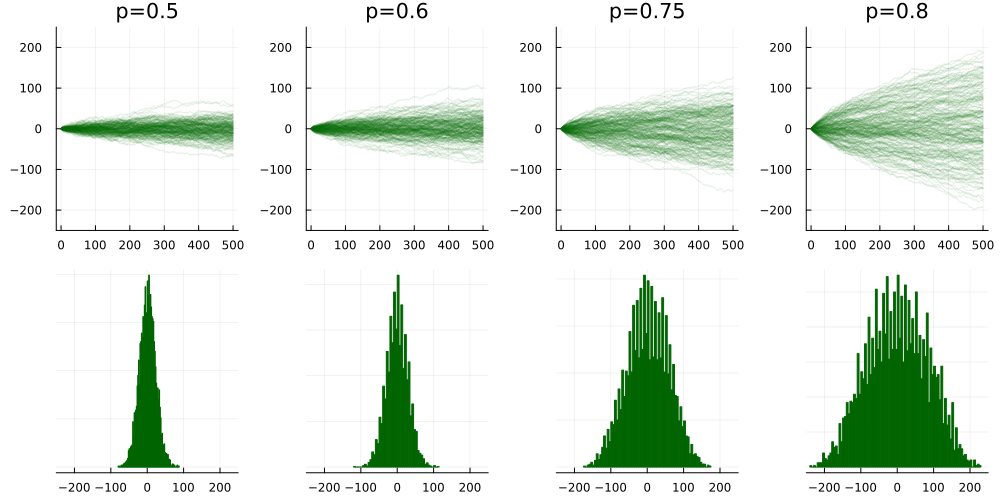
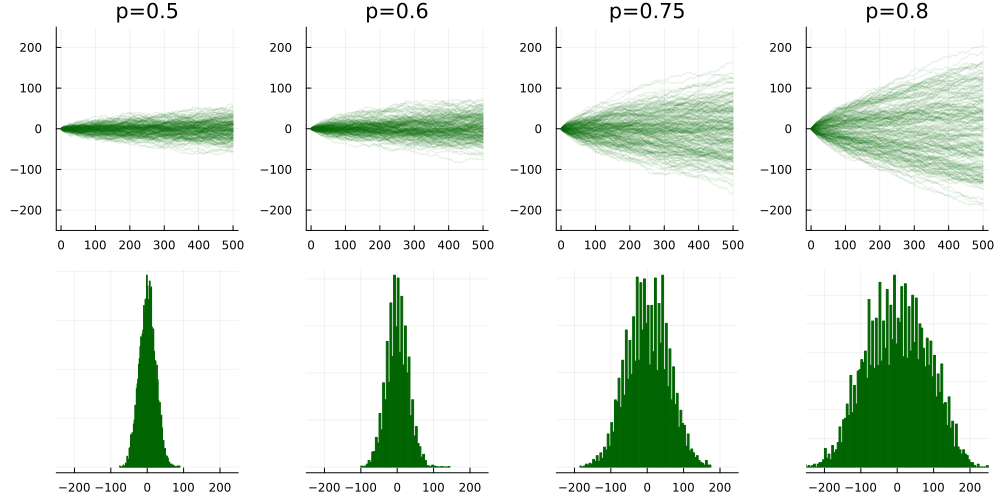
corrected small mistake

diff --git a/posts/elephant.md b/posts/elephant.md
@@ -7,7 +7,7 @@ abstract = "Long-time memory results in non-diffusivity "
 \newcommand{\ERW}{\mathrm{ERW}}
 
 
-In the Simple Random Walk (ERW), a walker moves in random directions; all of her steps are independent. The variance of the displacement of a random walker after $n$ steps typically grows linearly with $n$: for example in the 1d symmetric random walk defined by $$\SRW_n = S_1 + \dotsb + S_n$$ with $\mathbf{P}(S_n =\pm 1) = 1/2$, one has $\mathrm{Var}(\SRW_n) = n/4$. This behaviour is called [*diffusive*](https://en.wikipedia.org/wiki/Diffusion), because it is a discrete analog of heat dissipation. 
+In the Simple Random Walk (ERW), a walker moves in random directions; all of her steps are independent. The variance of the displacement of a random walker after $n$ steps typically grows linearly with $n$: for example in the 1d symmetric random walk defined by $$\SRW_n = S_1 + \dotsb + S_n$$ with $\mathbf{P}(S_n =\pm 1) = 1/2$, one has $\mathrm{Var}(\SRW_n) = n$. This behaviour is called [*diffusive*](https://en.wikipedia.org/wiki/Diffusion), because it is a discrete analog of heat dissipation. 
 
 The introduction of *long-term memory* in Random Walks breaks this diffusive behaviour. In the Simple Random Walk, the walker takes a random step independently of its former moves, oblivious of her past; but instead, she could remember one of her previous steps and reproduce it, just like Elephants whose memory is said to be surprisingly vast. The *Elephant Randow Walk* (ERW) has been thoroughly studied since its introduction in the paper [Elephants can always remember](https://arxiv.org/abs/cond-mat/0406593) by Schütz and Trimper, both for its mathematical tractability and rich behaviour. 
 
@@ -75,9 +75,9 @@ Now,
 - If $\alpha-1<0$ then $I_n(\alpha)\sim \Gamma(\alpha)n^{-\alpha}n/(1-\alpha)$
 @@
 
-Here is a log-plot of the empirical variance of 100 runs of Elephant Randow Walks with various memory parameters $p$ ranging between $0.6$ and $0.9$. 
+Here is a log-plot of the empirical variance of 100 runs of Elephant Randow Walks with various memory parameters $p$ ranging between $0.5$ and $0.9$. 
 ![](/posts/img/erw_variance.png)
-The white line marks the transition at $p=3/4$, between a diffusive behaviour and a super-diffusive behaviour. 
+The white line marks the transition at $p=3/4$, between a diffusive behaviour and a super-diffusive behaviour. The red line represents the Simple Random Walk with a variance of $n$. 
 
 
 ## Proof of \eqref{explicit}: exact computation of the variance $V_n$
